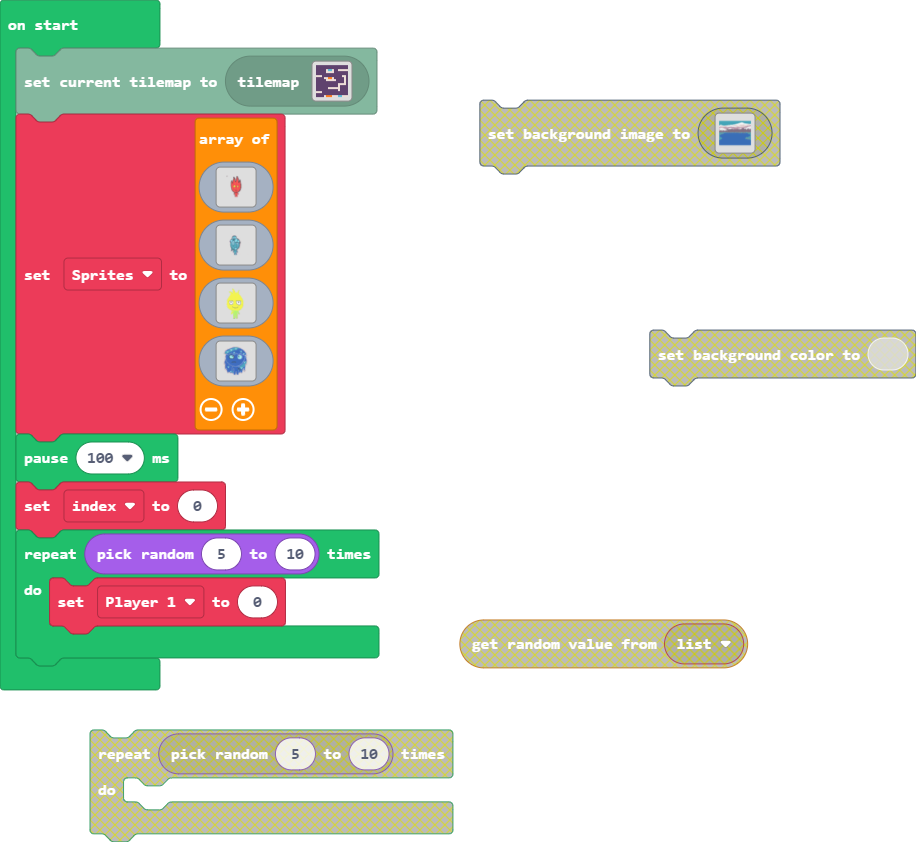
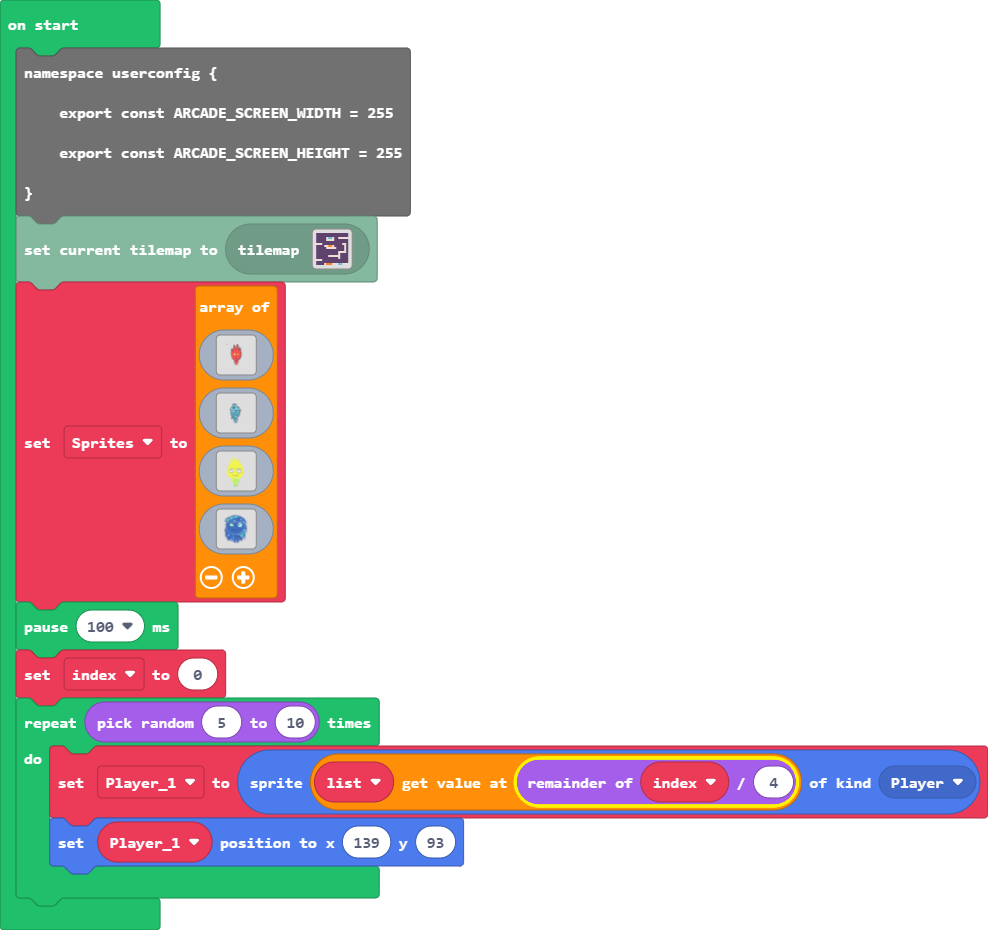
Update main.blocks, main.ts

diff --git a/main.ts b/main.ts
@@ -1,4 +1,8 @@
-let Player_1 = 0
+let Player_1: Sprite = null
+namespace userconfig {
+    export const ARCADE_SCREEN_WIDTH = 255
+    export const ARCADE_SCREEN_HEIGHT = 255
+}
 tiles.loadMap(tiles.createMap(tilemap`level 1`))
 let Sprites = [
 assets.image`fire boy water girl`,
@@ -482,5 +486,7 @@ img`
 pause(100)
 let index = 0
 for (let index2 = 0; index2 < randint(5, 10); index2++) {
-    Player_1 = 0
+    let list: Image[] = []
+    Player_1 = sprites.create(list[index % 4], SpriteKind.Player)
+    Player_1.setPosition(139, 93)
 }
